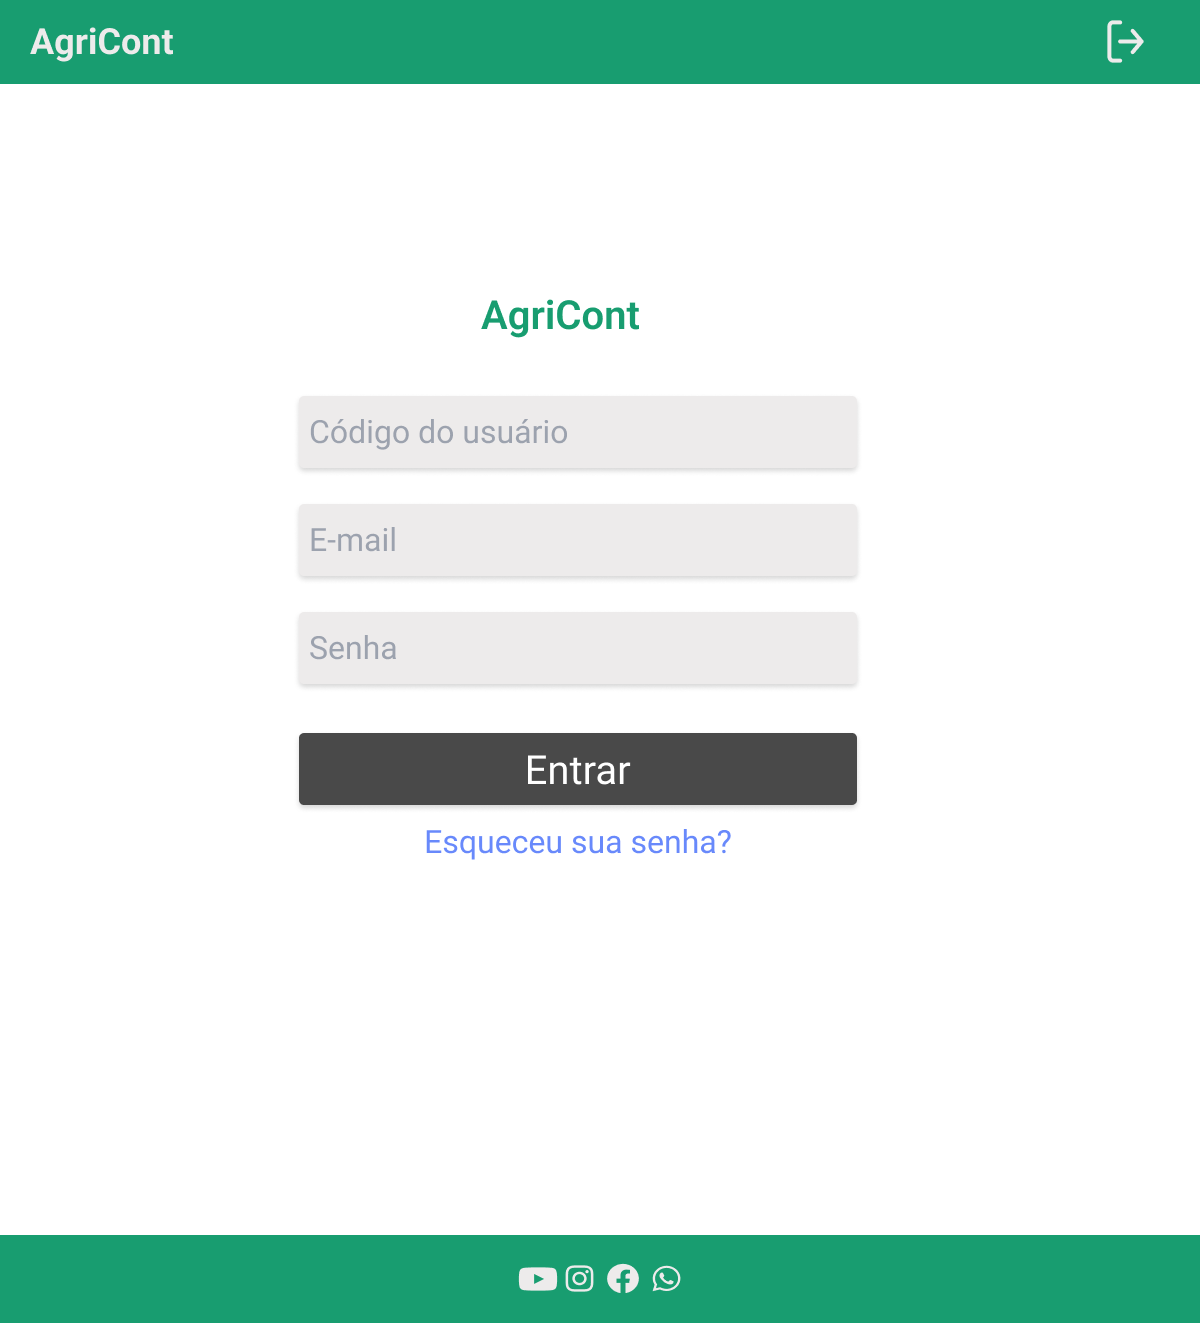
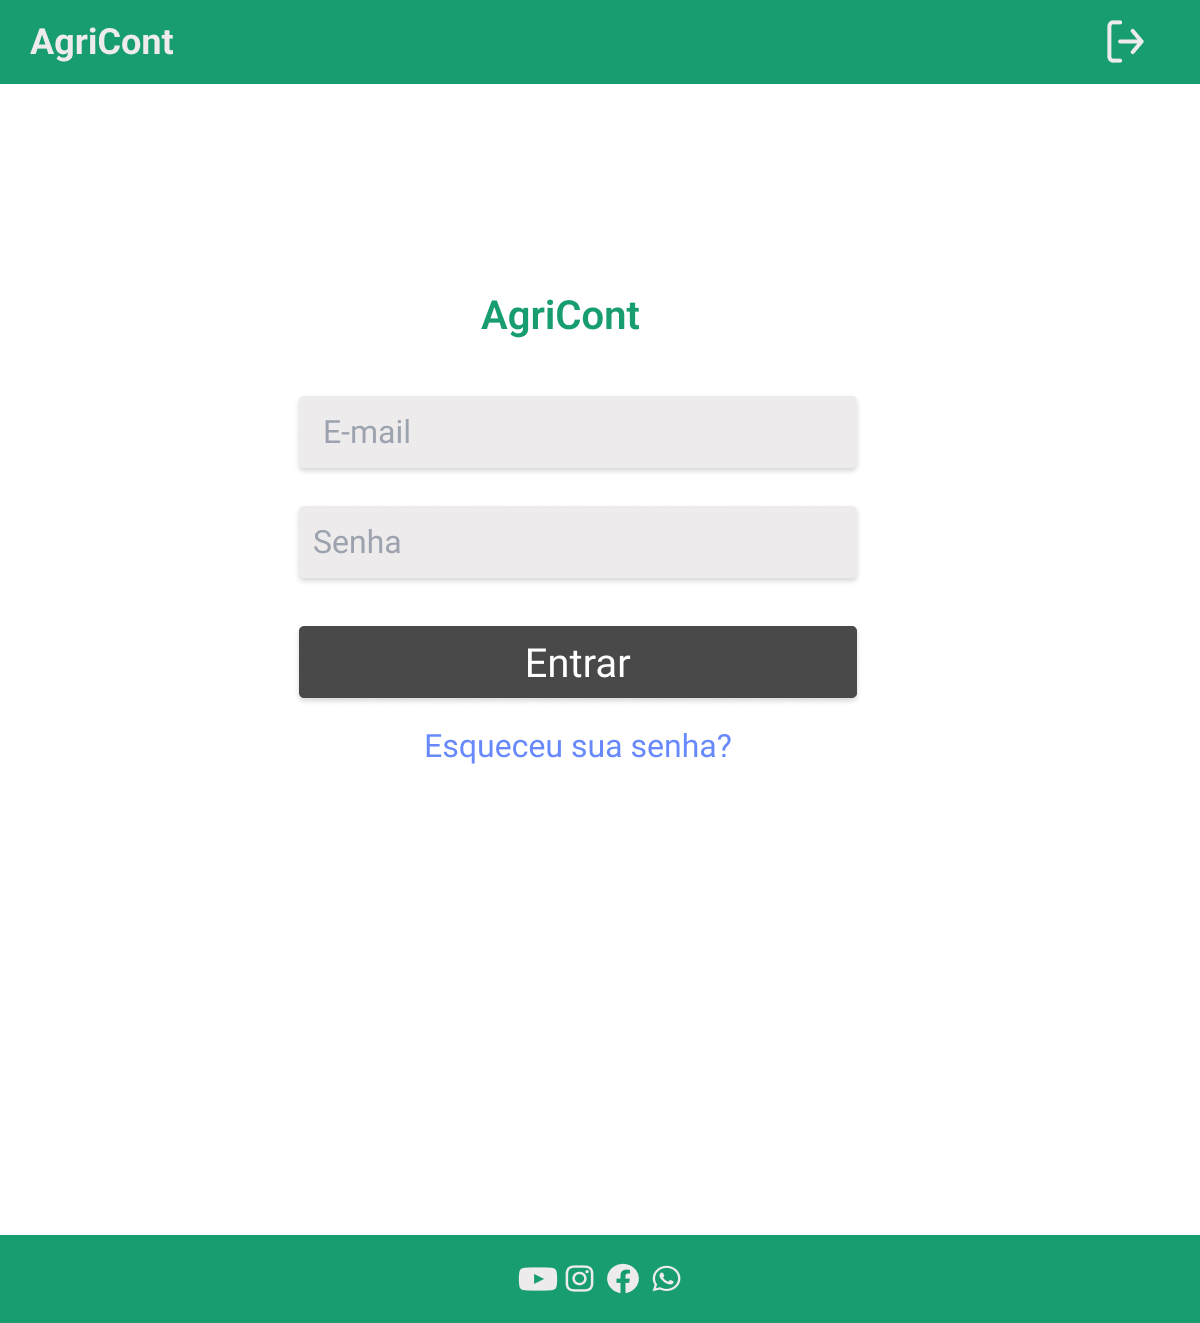
update

Changed region(s): [[0.2467, 0.4649, 0.74, 0.6508], [0.2467, 0.3099, 0.4625, 0.3409], [0.2467, 0.4029, 0.3392, 0.4339]]

diff --git a/docs/10-Plano de Testes de Usabilidade.md b/docs/10-Plano de Testes de Usabilidade.md
@@ -1,5 +1,7 @@
 # Plano de Testes de Usabilidade
 
+Os testes de usabilidade permitem avaliar a qualidade da interface com o usuário da aplicação interativa.
+
 |   | Etapas  |
 |---|---------| 
 |   | 1) Análise Heurística;  |
@@ -52,7 +54,6 @@ Para esta etapa do projeto, os testes serão realizados nas principais funcional
 
 
 
-Os testes de usabilidade permitem avaliar a qualidade da interface com o usuário da aplicação interativa.
 
 Um plano de teste de usabilidade deverá conter: o detalhamento dos objetivos (em função dos requisitos levantados/implementados), dos critérios que serão utilizados para a seleção dos participantes, dos procedimentos a serem adotados pelos condutores de teste (por exemplo: os testes serão presenciais ou remotos? o método será observação direta, medição ou avaliação?), das tarefas a serem executadas, dos dados a serem coletados (quantidade de cliques, número de erros, tempo etc.), a ordem de execução das tarefas e das etapas da sessão de teste, recursos demandados, métricas coletadas etc.
 

diff --git a/docs/04-Projeto de Interface.md b/docs/04-Projeto de Interface.md
@@ -69,8 +69,16 @@ O usuário poderá selcionar tipos de equipamentos, dados da nota fiscal, dados 
 
 <img src="img/Filtro.png" width = 500>
 
+## Tela de Login
+A tela de Login abrirá após o usuário clicar no ícone de Login localizado no Cabeçalho. O usuário deverá informar e-mail, ID da empresa, senha e clicar em entrar, após isso estará logado.
 
+<img src="img/Login.png" width = 500>
 
+## Tela de Informações cadastradas do item
+
+Esta tela é exibida na forma de uma janela modal e exibe todas as informações cadastradas do item selecionado. No canto inferior direito, possui um botão para sair.  
+
+<img src="img/tela-info.png">
 
 São protótipos usados em design de interface para sugerir a estrutura de um site web e seu relacionamentos entre suas páginas. Um wireframe web é uma ilustração semelhante do layout de elementos fundamentais na interface.
  
